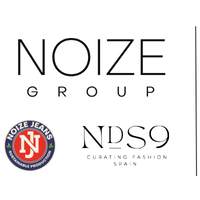
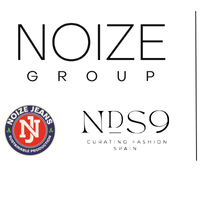
file location

diff --git a/index.html b/index.html
@@ -14,7 +14,7 @@
     <!-- Logo Section -->
     <td class="logo-section">
        
-      <img src="https://cdn.shopify.com/s/files/1/0837/4475/1921/files/bg-white-updated.png?v=1750313839" alt="Noize Group Logos" class="logo-image">
+      <img src="https://1drv.ms/i/c/d2d259f0627dc7fd/Ef_Bt06nOSBEneN1RaYEZNIBJnfOYLnCaIRbVS8Eyh4VQQ?e=eZplj2" alt="Noize Group Logos" class="logo-image">
     </td>
 
     <!-- Info Section -->
